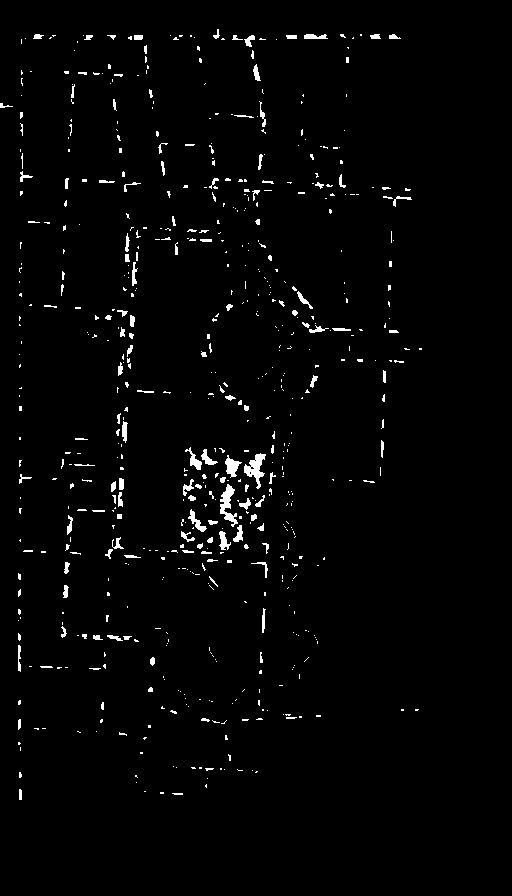
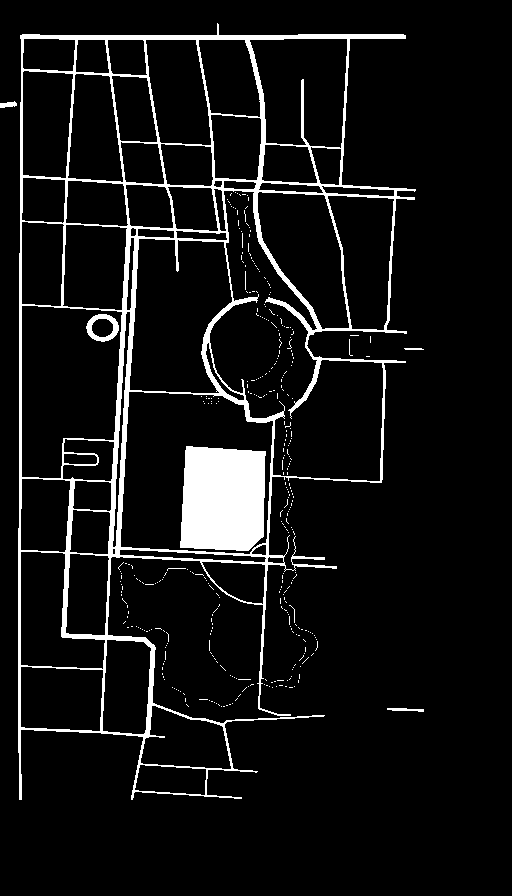
积水按视频重做：造波纹理 step 裁形 + 内切边缘 + 倒播；修雨丝偏粗且只落右半屏
积水链路照视频逐字稿重排（用户给了视频的截图对照）：
- 烘焙期只出「容器」：puddle_mask.png 改成纯硬面掩码（路 + 米色石板，湖面扣除），
  不再烘焙期定形状；另烘 wave_noise.png（512×896 平滑两级 value noise，
  298KB）当「造波纹理」。
- puddle.gdshader 运行时算形状：造波纹理 + smoothstep(TH=0.60，约硬面 29%)
  裁出连片水洼；向内切一层（INSET 0.055）→ 外圈薄水亮边、内圈深水；
  边缘叠一层移动采样（负时间方向，视频里的「倒播」），亮边会缓缓流动；
  反射透明度按造波值走（深水实、边缘半透）。
- 涟漪挪到子节点 Ripples 层（water_ripples.gd），画在积水之上不被盖掉；
  落点四成给水洼、六成给湖面。水洼落点用 GDScript 读同一张造波纹理，
  只挑「深水区」，和 shader 裁形完全同源。
- 湖面涟漪按用户要求改成「雨点打湖面」，不再跟人物脚步走。
- ⚠ _view_world() 必须 get_global_transform⁻¹ × get_canvas_transform⁻¹：
  campus 有自身偏移，直接用画布逆变换可视矩形会整体平移几百像素，
  落点全落到水域外（表现：涟漪一个都不出现）。

雨丝（用户反馈「大的粗的要命，只有右边一半屏幕有」）：
- 重生 x 改全宽 —— 之前只为对冲风向撒在 0.4w~w，风往左吹，左半屏永远没雨。
- 细回 1px（2px 双描边太笨），线长 20~42px，MAX_DROPS 420→300。

diff --git a/tools/bake_puddle_mask.py b/tools/bake_puddle_mask.py
@@ -1,15 +1,13 @@
-"""烘一张「雨天积水在哪」的掩码图给积水 shader 用。
+"""烘雨天积水用的两张图：硬面掩码 + 造波纹理。
 
-思路来自那个雨夜效果视频：积水不是盖满地面，而是用噪声在硬质铺装上
-裁出一块块的水洼。我们不改地面贴图（判水 4 档色、道具候选网格都动不得），
-照 water_mask 的路子出一张 1px=1格 的黑白图，shader 采样它做湿面 + 波纹。
+照那个雨夜效果视频的做法，积水形状不在烘焙期定死，而是运行时算：
+  - `puddle_mask.png`：积水「允许出现在哪」—— 不渗水的硬质铺装
+    （沥青路 + 米色石板），湖面扣除。相当于视频里 sprite 放在地面的底图。
+  - `wave_noise.png`：造波纹理 —— 平滑的两级 value noise（6 格 + 2.5 格），
+    shader 里用 step 裁出连片水洼、向内切一层做边缘；GDScript 读同一张图
+    给雨点涟漪挑落点，两边数值完全一致。
 
-积水只落在不渗水的表面上：
-  - 沥青路 / 广场石板（beige）—— 路面坑洼最容易存水
-  - 草地不留积水（泥土渗水快，而且草地上盖蓝片会像污渍，之前否决过）
-
-形状：两级 value noise（6 格 + 2.5 格），阈值裁出连片但不规则的洼，
-再抠掉湖面（那里本来就是水）。全程序生成，幂等，重跑结果一致。
+两张都是 1px=1格（512×896）。全程序生成，幂等，重跑结果一致。
 
 用法：python tools/bake_puddle_mask.py
 """
@@ -26,7 +24,8 @@ import bake_ground_detail as D      # noqa: E402
 import bake_ground_refine as R      # noqa: E402  _beige_mask
 
 CELL = 8            # 一格 8px，与 water_mask 同规格
-THRESHOLD = 0.615   # 噪声高于这个值才积水（调它控制水洼覆盖率）
+WAVE_SEED = 20261115
+WAVE_SEED2 = 917331
 
 
 def _hash(ix, iy, seed):
@@ -50,10 +49,10 @@ def _vnoise(x, y, seed):
     return (a * (1 - fx) + b * fx) * (1 - fy) + (c * (1 - fx) + d * fx) * fy
 
 
-def puddle_noise(cx, cy):
-    """两级噪声：大块定势、小块破边。0..1"""
-    n = _vnoise(cx / 6.0, cy / 6.0, 20261115) * 0.72
-    n += _vnoise(cx / 2.5, cy / 2.5, 917331) * 0.28
+def wave_value(cx, cy):
+    """造波值：两级噪声，大块定势、小块破边。0..1（近似归一）"""
+    n = _vnoise(cx / 6.0, cy / 6.0, WAVE_SEED) * 0.72
+    n += _vnoise(cx / 2.5, cy / 2.5, WAVE_SEED2) * 0.28
     return n
 
 
@@ -83,26 +82,35 @@ def main():
         water = Image.open(wp).convert("L")
         if water.size == (mw, mh):
             hard = ImageChops.subtract(hard, water)
+    n_hard = sum(1 for v in hard.getdata() if v)
 
-    # 3) 噪声裁形
-    out = Image.new("L", (mw, mh), 0)
-    px = out.load()
-    hp = hard.load()
-    n_hard = n_pud = 0
-    for y in range(mh):
-        for x in range(mw):
-            if hp[x, y] == 0:
-                continue
-            n_hard += 1
-            if puddle_noise(x, y) >= THRESHOLD:
-                px[x, y] = 255
-                n_pud += 1
+    # 3) 造波纹理：平滑灰度图，shader 用 step 裁形、内切一层做边缘
+    wave = Image.new("L", (mw, mh))
+    wave.putdata([
+        int(round(wave_value(x, y) * 255.0))
+        for y in range(mh) for x in range(mw)
+    ])
 
     dst = os.path.join(ROOT, "assets", "puddle_mask.png")
-    out.save(dst, optimize=True)
-    print("[puddle] 硬面 %d 格，积水 %d 格（占硬面 %.1f%%）" % (
-        n_hard, n_pud, 100.0 * n_pud / max(1, n_hard)))
-    print("[puddle] 已写 %s（%d KB）" % (dst, os.path.getsize(dst) // 1024))
+    hard.save(dst, optimize=True)
+    dst2 = os.path.join(ROOT, "assets", "wave_noise.png")
+    wave.save(dst2, optimize=True)
+
+    print("[puddle] 硬面 %d 格（%d KB）→ %s" % (
+        n_hard, os.path.getsize(dst) // 1024, dst))
+    print("[puddle] 造波纹理（%d KB）→ %s" % (
+        os.path.getsize(dst2) // 1024, dst2))
+    # 各阈值下的水洼覆盖率，shader 里挑 step 阈值时参考
+    hd = hard.load()
+    wd = wave.load()
+    for th in (0.55, 0.58, 0.60, 0.62, 0.65):
+        n = 0
+        for y in range(mh):
+            for x in range(mw):
+                if hd[x, y] and wd[x, y] / 255.0 >= th:
+                    n += 1
+        print("[puddle]   阈值 %.2f → 水洼 %d 格（占硬面 %.1f%%）" % (
+            th, n, 100.0 * n / max(1, n_hard)))
 
 
 if __name__ == "__main__":
